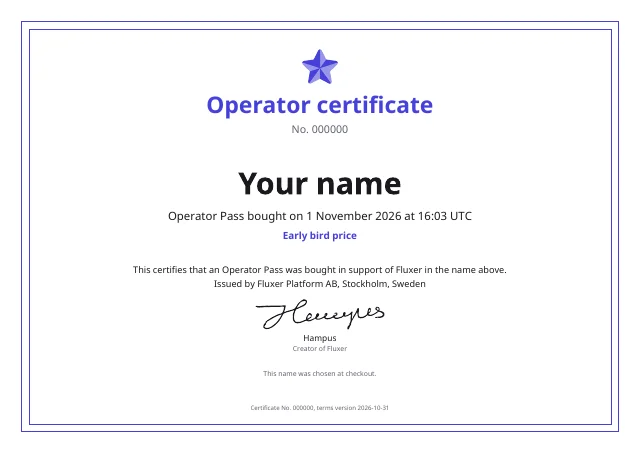
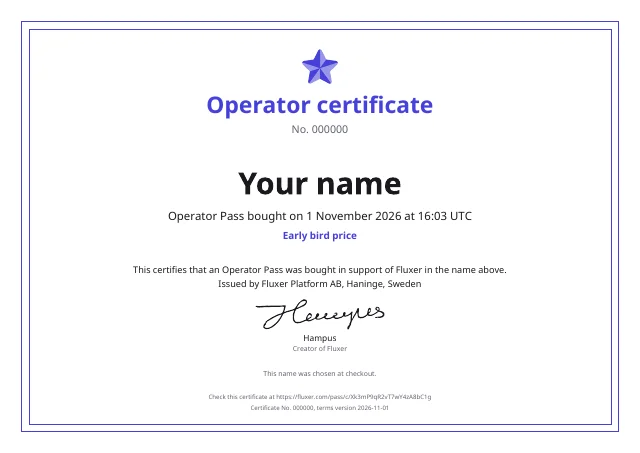
fix(operator-pass): faster showcase and current sample (#3788)

Changed region(s): [[0.3125, 0.8653, 0.6875, 0.8962], [0.3438, 0.6181, 0.6562, 0.649]]

diff --git a/fluxer_app/src/features/premium/components/operator_pass/checkout/OperatorPassShowcase.tsx b/fluxer_app/src/features/premium/components/operator_pass/checkout/OperatorPassShowcase.tsx
@@ -15,7 +15,7 @@ import {AnimatePresence, motion} from 'framer-motion';
 import {observer} from 'mobx-react-lite';
 import {useEffect, useState} from 'react';
 
-const AUTOPLAY_MS = 6000;
+const AUTOPLAY_MS = 3500;
 
 const SHOWCASE_LABEL_DESCRIPTOR = msg({
 	message: 'What comes with the {operatorPassName}',
